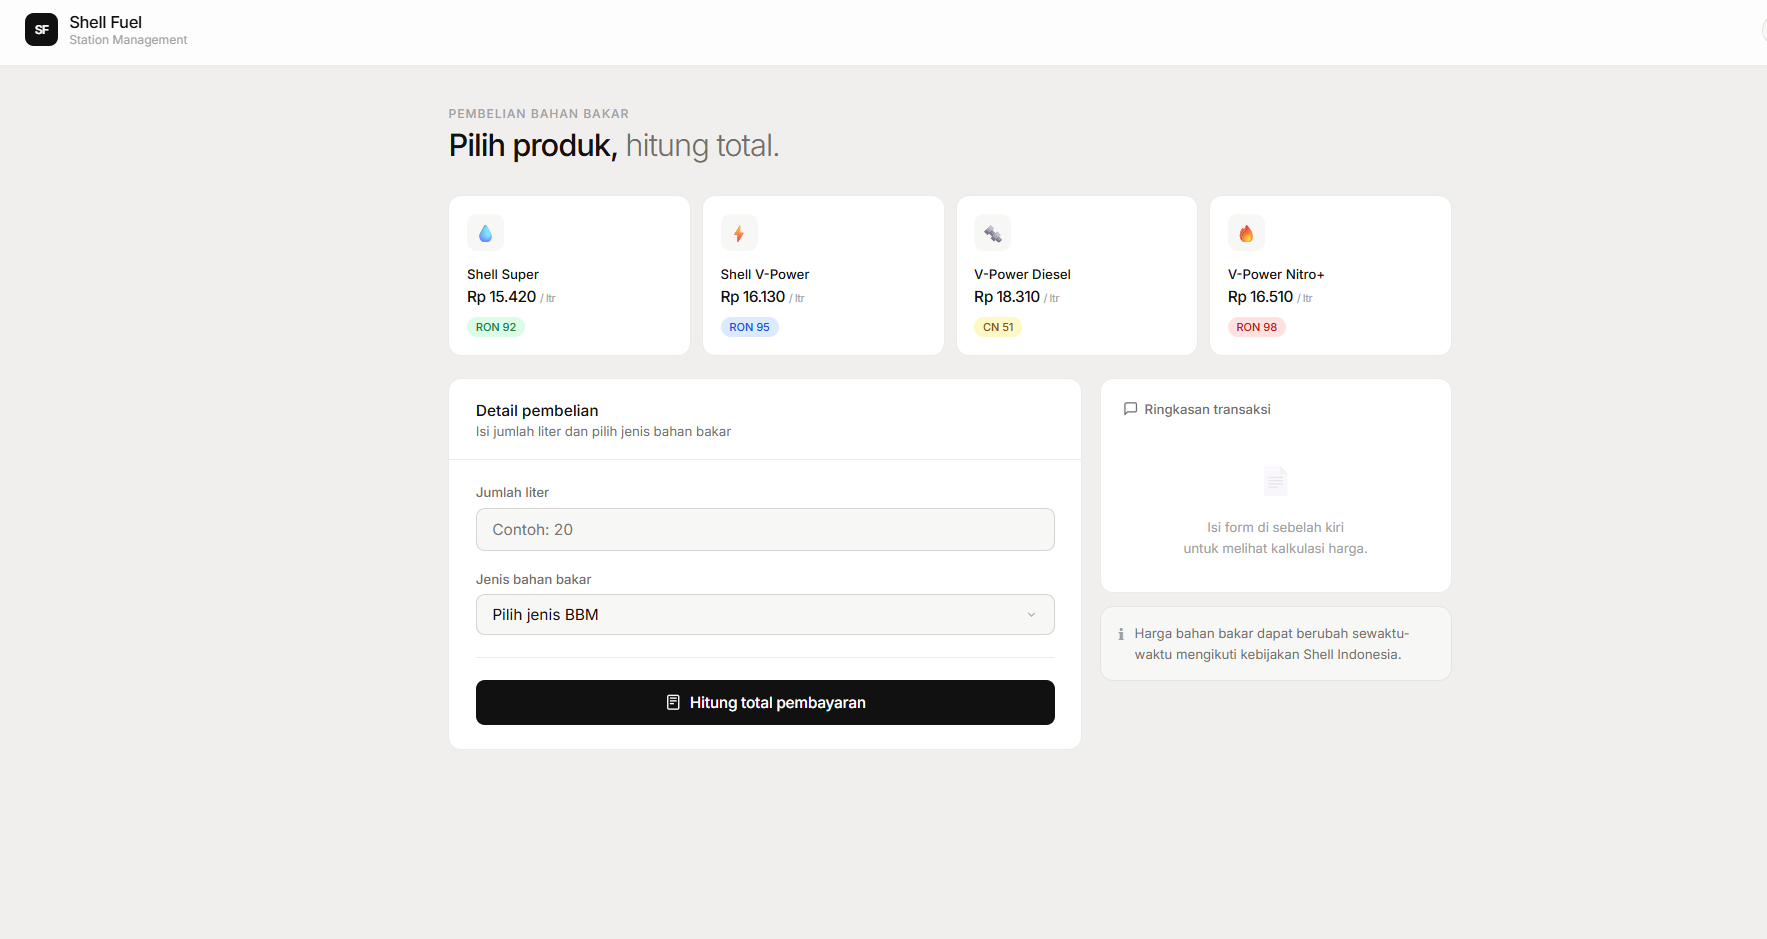
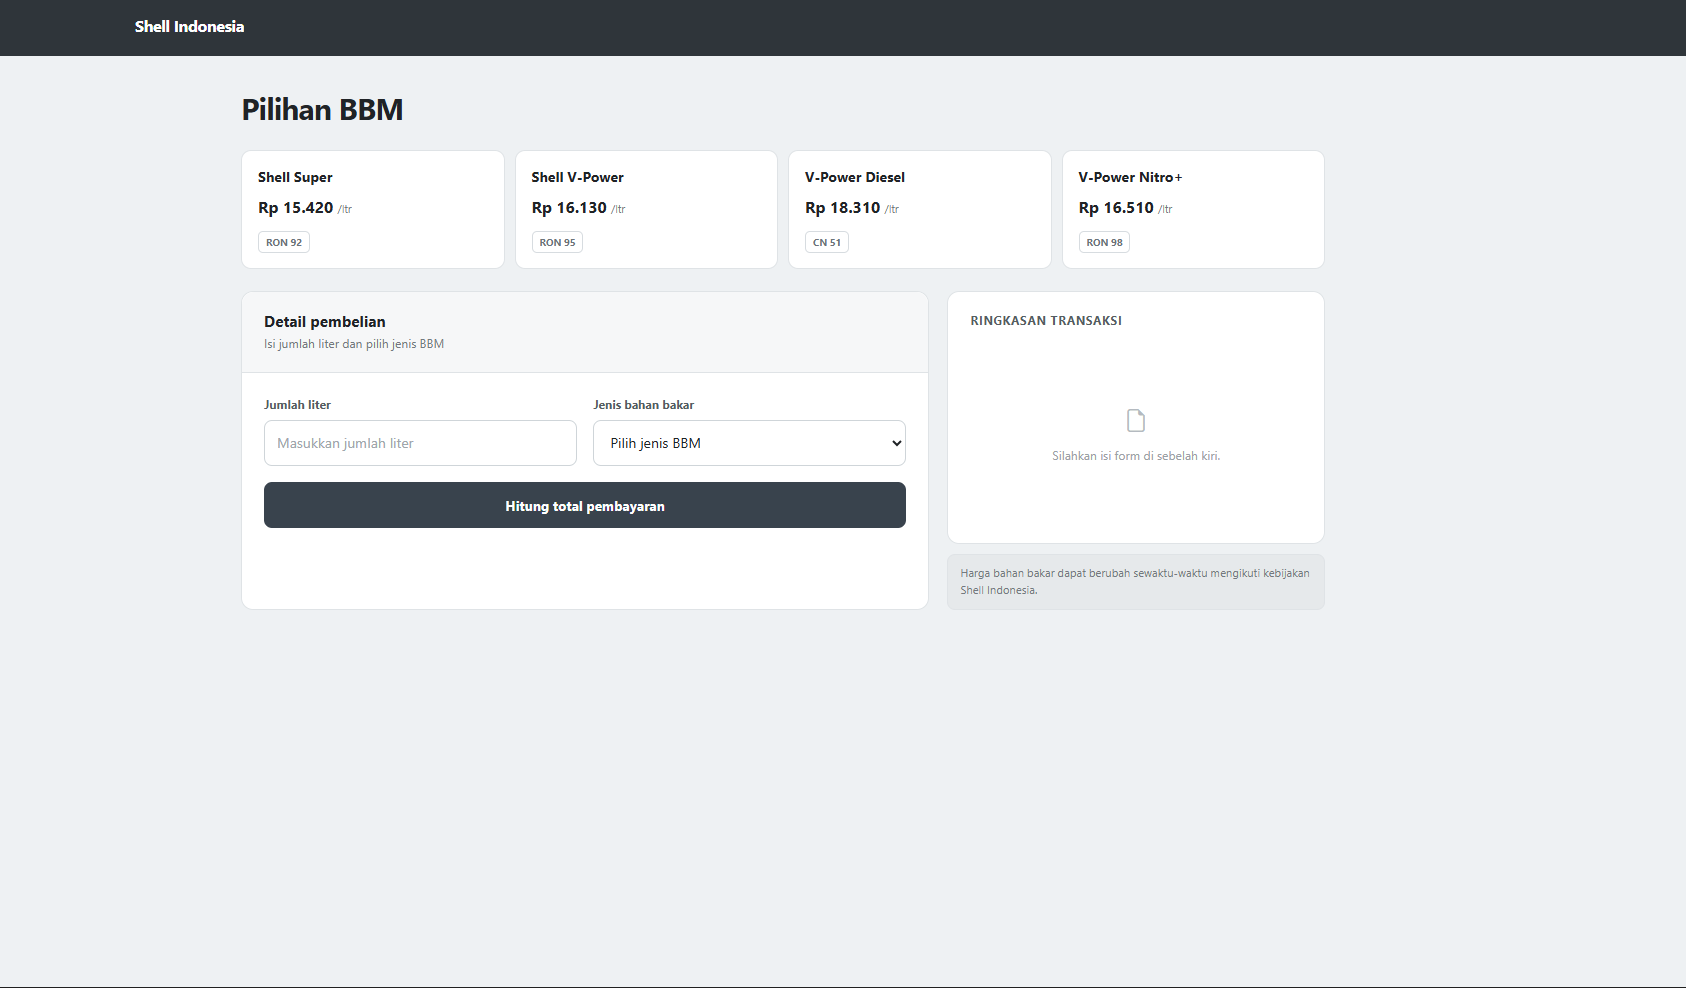
all update add experience

diff --git a/src/components/ExperienceSection.vue b/src/components/ExperienceSection.vue
@@ -1,0 +1,256 @@
+<template>
+  <section class="experience-section" id="experience">
+    <div class="experience-inner">
+      <div class="section-header">
+        <h2 class="section-title">Experience</h2>
+        <div class="section-line"></div>
+      </div>
+
+      <div class="timeline">
+        <article class="experience-card fade-in" v-for="item in experiences" :key="item.id">
+          <div class="experience-period">
+            <span class="period-badge">{{ item.period }}</span>
+            <p class="period-label">{{ item.timeline }}</p>
+          </div>
+
+          <div class="experience-content">
+            <div class="company-row">
+              <span class="company-dot"></span>
+              <h3>{{ item.company }}</h3>
+            </div>
+
+            <h4 class="role-title">{{ item.role }}</h4>
+
+            <p class="experience-description">
+              {{ item.description }}
+            </p>
+
+            <ul class="achievement-list">
+              <li v-for="achievement in item.achievements" :key="achievement">
+                {{ achievement }}
+              </li>
+            </ul>
+          </div>
+        </article>
+      </div>
+    </div>
+  </section>
+</template>
+
+<script>
+export default {
+  name: 'ExperienceSection',
+  data() {
+    return {
+      experiences: [
+        {
+          id: 1,
+          company: 'PT. Berdhaya Gemilang Mandiri',
+          role: 'Mobile Developer Intern',
+          period: '6 Months, Jan 2025 - Jun 2025',
+          timeline: 'Internship Program',
+          description:
+            'Supported mobile app development and built core features based on team needs:',
+          achievements: [
+            'Turned UI/UX designs into functional mobile app screens.',
+            'Integrated REST APIs to connect frontend features with backend data.',
+            'Helped fix bugs and improve existing app features.',
+            'Worked closely with senior developers in a team environment.'
+          ]
+        },
+        {
+          id: 2,
+          company: 'Dicoding DBS Foundation Coding Camp',
+          role: 'Full Stack Developer Cohort',
+          period: '4 Months, Jan 2025 - Apr 2025',
+          timeline: 'Bootcamp Program',
+          description:
+            'Full Stack Coding Camp Bootcamp:',
+          achievements: [
+           'Built web applications both individually and in team projects.',
+            'Developed backend services using Node.js..',
+            'Created responsive frontend interfaces with HTML, CSS, and React.js.',
+            'Learned the basics of AWS cloud deployment and architecture.'
+          ]
+        }
+      ]
+    }
+  }
+}
+</script>
+
+<style scoped>
+
+
+.experience-inner {
+  max-width: 1200px;
+  margin: 0 auto;
+  padding: 0 40px;
+}
+
+.section-header {
+  margin-bottom: 60px;
+  display: flex;
+  flex-direction: column;
+  align-items: center;
+}
+
+.section-title {
+  font-size: 40px;
+  font-weight: 800;
+  color: var(--text-primary);
+  margin-bottom: 16px;
+  letter-spacing: -1px;
+}
+
+.section-line {
+  width: 60px;
+  height: 4px;
+  background: var(--text-primary);
+  border-radius: 2px;
+}
+
+.timeline {
+  display: flex;
+  flex-direction: column;
+  gap: 28px;
+}
+
+.experience-card {
+  display: grid;
+  grid-template-columns: 220px 1fr;
+  gap: 28px;
+  background: rgba(255, 255, 255, 0.02);
+  border: 1px solid var(--border);
+  border-radius: 24px;
+  padding: 28px 30px;
+  box-shadow: 0 18px 40px rgba(0, 0, 0, 0.18);
+  transition: transform 0.3s ease, border-color 0.3s ease;
+}
+
+.experience-card:hover {
+  transform: translateY(-4px);
+  border-color: rgba(255, 255, 255, 0.2);
+}
+
+.experience-period {
+  display: flex;
+  flex-direction: column;
+  align-items: flex-start;
+  justify-content: center;
+  border-right: 1px solid var(--border);
+  padding-right: 26px;
+}
+
+.period-badge {
+  display: inline-flex;
+  align-items: center;
+  justify-content: center;
+  padding: 8px 14px;
+  background: rgba(255, 255, 255, 0.06);
+  border: 1px solid rgba(255, 255, 255, 0.12);
+  border-radius: 999px;
+  font-size: 12px;
+  font-weight: 700;
+  letter-spacing: 0.08em;
+  text-transform: uppercase;
+  color: var(--text-primary);
+}
+
+.period-label {
+  margin-top: 16px;
+  font-size: 14px;
+  color: var(--text-secondary);
+  letter-spacing: 0.08em;
+  text-transform: uppercase;
+}
+
+.experience-content {
+  display: flex;
+  flex-direction: column;
+  gap: 14px;
+}
+
+.company-row {
+  display: flex;
+  align-items: center;
+  gap: 12px;
+}
+
+.company-dot {
+  width: 10px;
+  height: 10px;
+  border-radius: 50%;
+  background: var(--text-primary);
+  box-shadow: 0 0 18px rgba(255, 255, 255, 0.8);
+}
+
+.company-row h3 {
+  font-size: 24px;
+  font-weight: 700;
+  color: var(--text-primary);
+}
+
+.role-title {
+  font-size: 18px;
+  font-weight: 600;
+  color: var(--text-primary);
+}
+
+.experience-description {
+  font-size: 15px;
+  line-height: 1.8;
+  color: var(--text-secondary);
+}
+
+.achievement-list {
+  list-style: none;
+  display: flex;
+  flex-direction: column;
+  gap: 10px;
+  margin-top: 8px;
+  padding: 0;
+}
+
+.achievement-list li {
+  position: relative;
+  padding-left: 20px;
+  line-height: 1.7;
+  color: var(--text-secondary);
+  font-size: 15px;
+}
+
+.achievement-list li::before {
+  content: '';
+  position: absolute;
+  left: 0;
+  top: 10px;
+  width: 8px;
+  height: 8px;
+  border-radius: 50%;
+  background: var(--text-primary);
+}
+
+@media (max-width: 768px) {
+  .experience-inner {
+    padding: 0 20px;
+  }
+
+  .experience-card {
+    grid-template-columns: 1fr;
+    gap: 18px;
+    padding: 22px 20px;
+  }
+
+  .experience-period {
+    border-right: none;
+    border-bottom: 1px solid var(--border);
+    padding-right: 0;
+    padding-bottom: 16px;
+  }
+
+  .company-row h3 {
+    font-size: 20px;
+  }
+}
+</style>

diff --git a/src/components/ProjectMe.vue b/src/components/ProjectMe.vue
@@ -2,13 +2,11 @@
   <section class="portfolio-section" id="project">
     <div class="portfolio-inner">
 
-      <!-- Section Header -->
       <div class="section-header">
         <h2 class="section-title">Selected Works</h2>
         <div class="section-line"></div>
       </div>
 
-      <!-- ==================== WEB PROJECTS ==================== -->
       <div class="category-section">
         <h3 class="category-title">Web Development</h3>
         <div class="projects-grid web-grid">
@@ -38,7 +36,6 @@
         </div>
       </div>
 
-      <!-- ==================== MOBILE PROJECTS ==================== -->
       <div class="category-section">
         <h3 class="category-title">Mobile Applications</h3>
         <div class="projects-grid mobile-grid">
@@ -78,22 +75,21 @@ export default {
   data() {
     return {
       projects: [
-        // Web Projects
         {
           id: 1,
           category: "Web",
           title: "Fuel Purchases Website - School Project",
-          description: "A website for buying fuel with easy transactions and fuel price information",
-          image: "/Assets/shell.jpg",
-          tags: ["PHP", "OOP", "HTML", "CSS", "Bootstrap"],
+          description: "A website for buying fuel with easy transactions and fuel price information.",
+          image: "/Assets/Shell.jpg",
+          tags: ["PHP", "OOP", "HTML", "CSS", "Bootstrap", "Google Fonts"],
         },
         {
           id: 2,
           category: "Web",
           title: "Motorbike Rental website - School Project",
           description: "An online motorbike rental website with booking and payment features.",
-          image: "/Assets/RentalMotor.jpg",
-          tags: ["PHP", "OOP", "HTML", "CSS", "Bootstrap"],
+          image: "/Assets/MotoRent.jpg",
+          tags: ["PHP", "OOP", "HTML", "CSS", "Bootstrap", "Font Awesome", "Google Fonts"],
         },
         {
           id: 3,
@@ -105,6 +101,15 @@ export default {
         },
         {
           id: 4,
+          category: "Web",
+          title: "Secure Coding Website - School Project",
+          description: "A website showcasing secure coding practices and best practices for web development.",
+          image: "/Assets/SecureCoding.jpg",
+          tags: ["Laravel", "Database", "Boostrap","MySQL"],
+        },
+
+          {
+          id: 5,
           category: "Web",
           title: "Haihai Website - Internship Project",
           description: "Redesigned and implemented the sign-up page interface to improve visual appearance and user experience.",
@@ -132,7 +137,7 @@ export default {
           id: 7,
           category: "Mobile",
           title: "WCP Mobile App - Internship Project",
-          description: "A mobile app designed to help manage company operations efficiently",
+          description: "A mobile app designed to help manage company operations efficiently.",
           image: "/Assets/Wcp-mobile.jpg",
           tags: ["Flutter", "Figma", "API",],
         },
@@ -149,7 +154,7 @@ export default {
           id: 9,
           category: "Mobile",
           title: "School Guest Book App - School Project",
-          description: "A collaborative school guest book application to manage visitor entries..",
+          description: "A collaborative school guest book application to manage visitor entries.",
           image: "/Assets/Guest-mobile.jpg",
           tags: ["Flutter", "Figma", "API"],
         },

diff --git a/src/App.vue b/src/App.vue
@@ -10,6 +10,7 @@
         <main v-if="$route.path === '/'">
           <HomeSection />
           <AboutMe />
+          <ExperienceSection />
           <ProjectMe />
           <CertificateSection />
           <ContactSection />
@@ -25,6 +26,7 @@
   import ContactSection    from './components/ContactSection.vue'
   import ProjectMe         from './components/ProjectMe.vue'
   import CertificateSection from './components/CertificateSection.vue'
+  import ExperienceSection from './components/ExperienceSection.vue'
 
   export default {
     name: 'App',
@@ -35,6 +37,7 @@
       ContactSection,
       ProjectMe,
       CertificateSection,
+      ExperienceSection,
     },
     data() {
       return {

diff --git a/src/components/AboutMe.vue b/src/components/AboutMe.vue
@@ -84,7 +84,7 @@ export default {
             { name: 'GitLab', icon: 'devicon-gitlab-plain' },
             { name: 'Postman', icon: 'devicon-postman-plain' },
             { name: 'Trello', icon: 'devicon-trello-plain' },
-            { name: 'Visual Studio Code', icon: 'devicon-visualstudio-plain' },
+            { name: 'Notion', icon: 'devicon-notion-plain' },
           ]
         }
       ]
